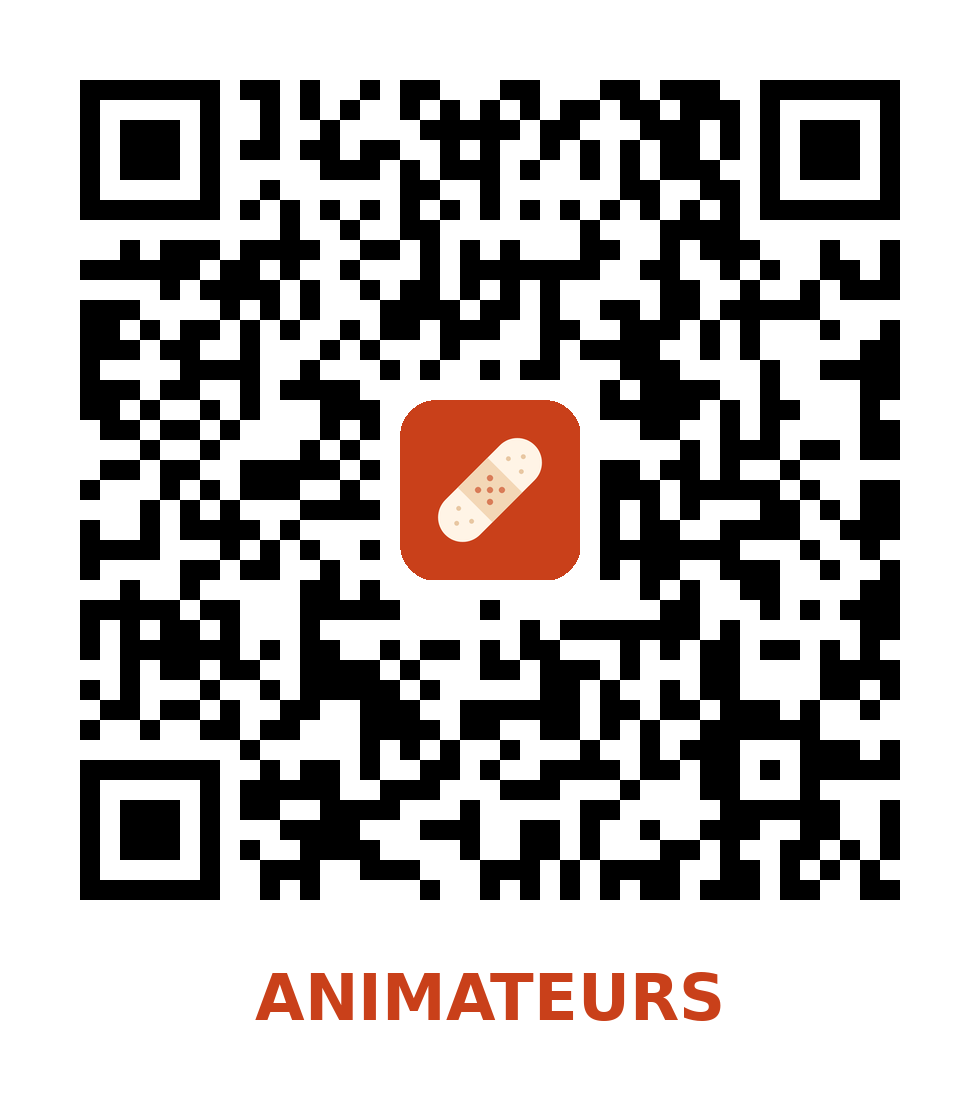
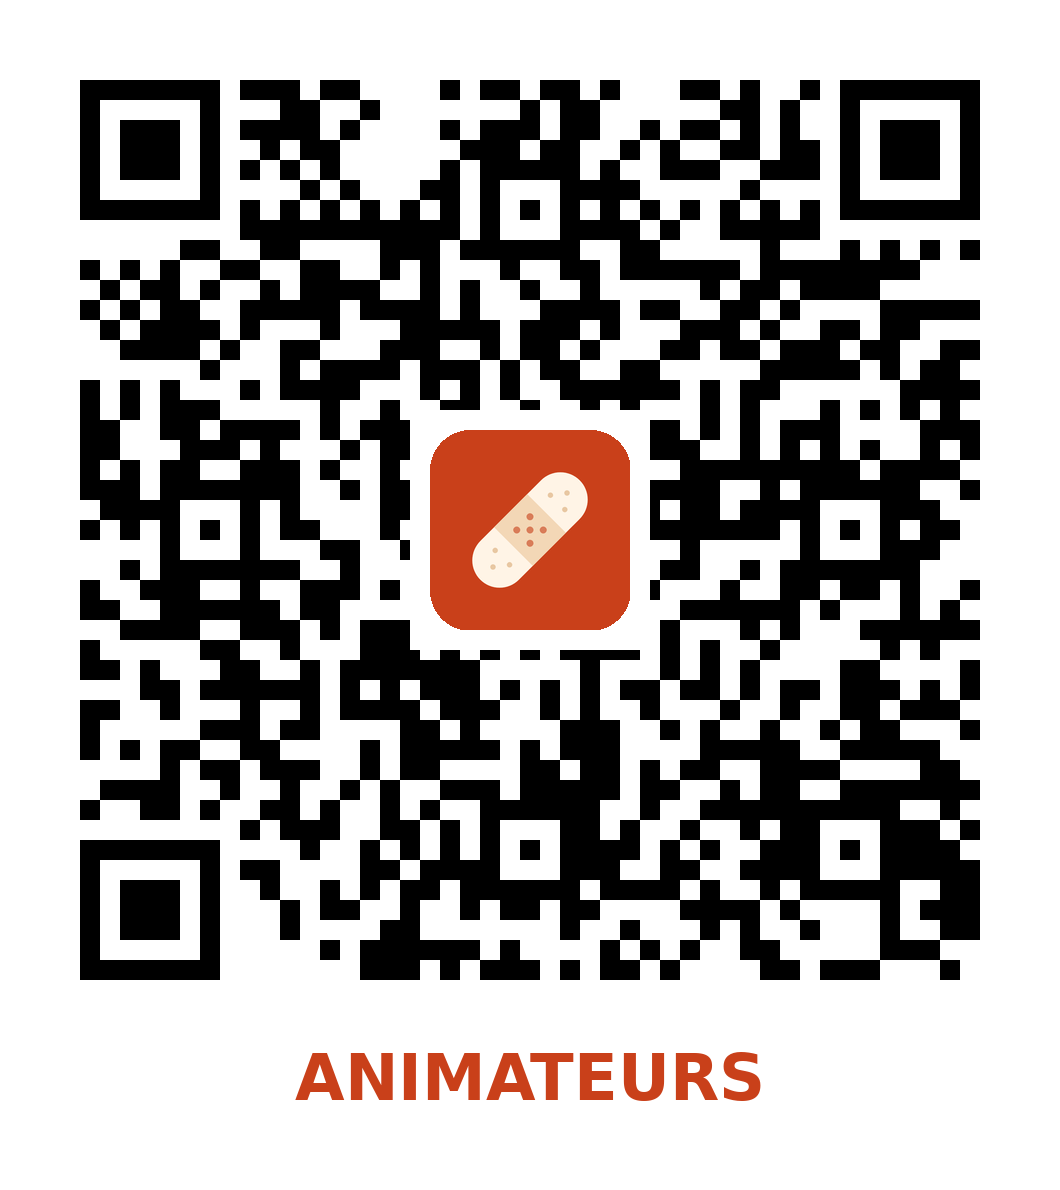
Update the QR code and docs for the renamed repository
Claude-Session: https://claude.ai/code/session_018JtGXPMESkCGPNXyLj57dW

diff --git a/README.md b/README.md
@@ -22,13 +22,13 @@ L'appli doit être servie en HTTPS pour pouvoir être installée. Le plus simple
 
 1. Sur GitHub, ouvrir ce dépôt puis **Settings → Pages**.
 2. Dans **Build and deployment**, choisir **Deploy from a branch**, sélectionner la branche qui contient ces fichiers et le dossier **/ (root)**, puis **Save**.
-3. Attendre une minute : l'adresse de l'appli s'affiche en haut de la page (du type `https://<compte>.github.io/Pianapp/`).
+3. Attendre une minute : l'adresse de l'appli s'affiche en haut de la page (du type `https://<compte>.github.io/Bobologie-animateur/`).
 
 Avec un compte GitHub gratuit, Pages n'est disponible que pour un dépôt public. Le dépôt ne contient que le code de l'appli, aucune donnée.
 
 ## QR code
 
-`qr-bobologie.png` mène à l'adresse de l'appli (`https://kozmiqueinvest-sketch.github.io/Pianapp/`). À scanner avec l'appareil photo du téléphone.
+`qr-bobologie.png` mène à l'adresse de l'appli (`https://kozmiqueinvest-sketch.github.io/Bobologie-animateur/`). À scanner avec l'appareil photo du téléphone.
 
 ## Installer sur Android
 
